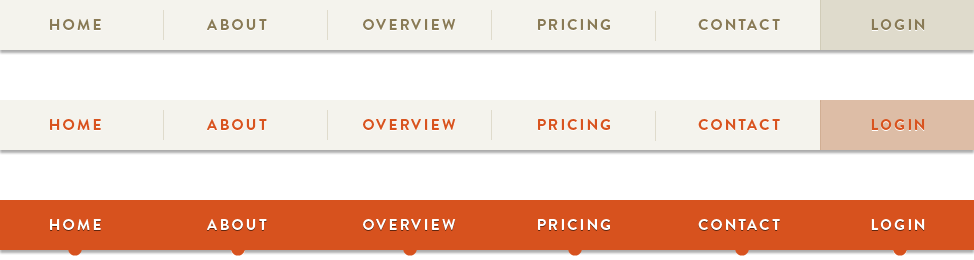
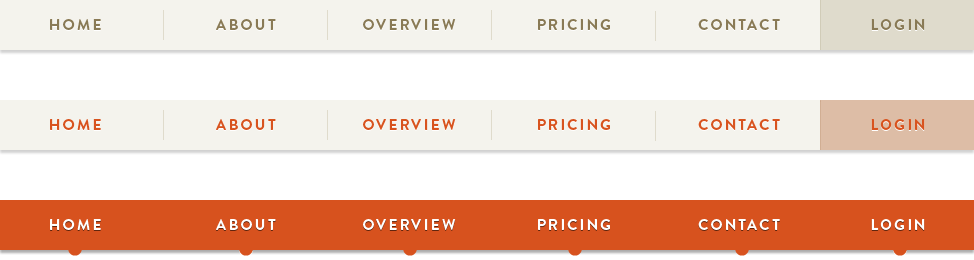
quick nav fix for spoonfeed non-logged in

diff --git a/app/stylesheets/redesign/_css/spoonfeed.scss b/app/stylesheets/redesign/_css/spoonfeed.scss
@@ -264,9 +264,9 @@ em, i{
 			&.selected {background-position: 0 -200px;}
 		}
 		&#nav_about {
-			background-position: -154px 0;
-			&:hover {background-position: -154px -100px;}
-			&.selected {background-position: -154px -200px;}
+			background-position: -164px 0;
+			&:hover {background-position: -164px -100px;}
+			&.selected {background-position: -164px -200px;}
 		}
 		&#nav_overview {
 			background-position: -328px 0;

diff --git a/db/schema.rb b/db/schema.rb
@@ -200,21 +200,21 @@ ActiveRecord::Schema.define(:version => 20101206205555) do
   end
 
   create_table "culinary_jobs", :force => true do |t|
-    t.integer  "profile_id",                                        :null => false
-    t.string   "title",                          :default => "",    :null => false
-    t.string   "city",                           :default => "",    :null => false
-    t.string   "state",                          :default => "",    :null => false
-    t.date     "date_started",                                      :null => false
+    t.integer  "profile_id",                         :null => false
+    t.string   "restaurant_name", :default => "",    :null => false
+    t.string   "title",           :default => "",    :null => false
+    t.string   "city",            :default => "",    :null => false
+    t.string   "state",           :default => "",    :null => false
+    t.string   "country",         :default => "",    :null => false
+    t.date     "date_started",                       :null => false
     t.date     "date_ended"
-    t.string   "chef_name",                      :default => "",    :null => false
-    t.boolean  "chef_is_me",                     :default => false, :null => false
-    t.text     "cuisine",                        :default => "",    :null => false
-    t.text     "notes",                          :default => "",    :null => false
+    t.string   "chef_name",       :default => "",    :null => false
+    t.boolean  "chef_is_me",      :default => false, :null => false
+    t.text     "cuisine",                            :null => false
+    t.text     "notes",                              :null => false
     t.datetime "created_at"
     t.datetime "updated_at"
-    t.boolean  "opening_staff",                  :default => false
-    t.string   "restaurant_name", :limit => nil
-    t.string   "country",         :limit => nil
+    t.boolean  "opening_staff",   :default => false
   end
 
   add_index "culinary_jobs", ["profile_id"], :name => "index_profile_restaurants_on_profile_id"
@@ -306,7 +306,7 @@ ActiveRecord::Schema.define(:version => 20101206205555) do
   add_index "employments", ["restaurant_role_id"], :name => "index_employments_on_restaurant_role_id"
 
   create_table "enrollments", :force => true do |t|
-    t.integer  "school_id",                       :null => false
+    t.integer  "school_id"
     t.integer  "profile_id",                      :null => false
     t.date     "graduation_date"
     t.string   "degree",          :default => "", :null => false
@@ -571,8 +571,8 @@ ActiveRecord::Schema.define(:version => 20101206205555) do
     t.string   "country",            :default => "", :null => false
     t.date     "date_started",                       :null => false
     t.date     "date_ended"
-    t.text     "responsibilities",   :default => "", :null => false
-    t.text     "reason_for_leaving", :default => "", :null => false
+    t.text     "responsibilities",                   :null => false
+    t.text     "reason_for_leaving",                 :null => false
     t.datetime "created_at"
     t.datetime "updated_at"
   end
@@ -649,7 +649,7 @@ ActiveRecord::Schema.define(:version => 20101206205555) do
     t.datetime "created_at"
     t.datetime "updated_at"
     t.string   "headline",              :default => ""
-    t.text     "summary",               :default => ""
+    t.text     "summary"
     t.string   "hometown"
     t.string   "current_residence"
     t.integer  "metropolitan_area_id"
@@ -764,6 +764,7 @@ ActiveRecord::Schema.define(:version => 20101206205555) do
     t.integer  "primary_photo_id"
     t.date     "opening_date"
     t.string   "sort_name"
+    t.boolean  "premium_account"
   end
 
   add_index "restaurants", ["cuisine_id"], :name => "index_restaurants_on_cuisine_id"
@@ -823,6 +824,29 @@ ActiveRecord::Schema.define(:version => 20101206205555) do
     t.text     "content"
     t.datetime "created_at"
     t.datetime "updated_at"
+  end
+
+  create_table "soapbox_promos", :force => true do |t|
+    t.string   "title"
+    t.text     "body"
+    t.datetime "created_at"
+    t.datetime "updated_at"
+    t.string   "link"
+    t.integer  "position"
+  end
+
+  create_table "soapbox_slides", :force => true do |t|
+    t.string   "image_file_name"
+    t.string   "image_content_type"
+    t.integer  "image_file_size"
+    t.integer  "image_updated_at"
+    t.string   "title"
+    t.text     "excerpt"
+    t.string   "link"
+    t.integer  "position"
+    t.datetime "created_at"
+    t.datetime "updated_at"
+    t.string   "photo_credit"
   end
 
   create_table "solo_discussions", :force => true do |t|
@@ -938,6 +962,7 @@ ActiveRecord::Schema.define(:version => 20101206205555) do
     t.string   "facebook_access_token"
     t.string   "facebook_page_id"
     t.string   "facebook_page_token"
+    t.boolean  "premium_account"
     t.boolean  "visible",               :default => true
   end
 
